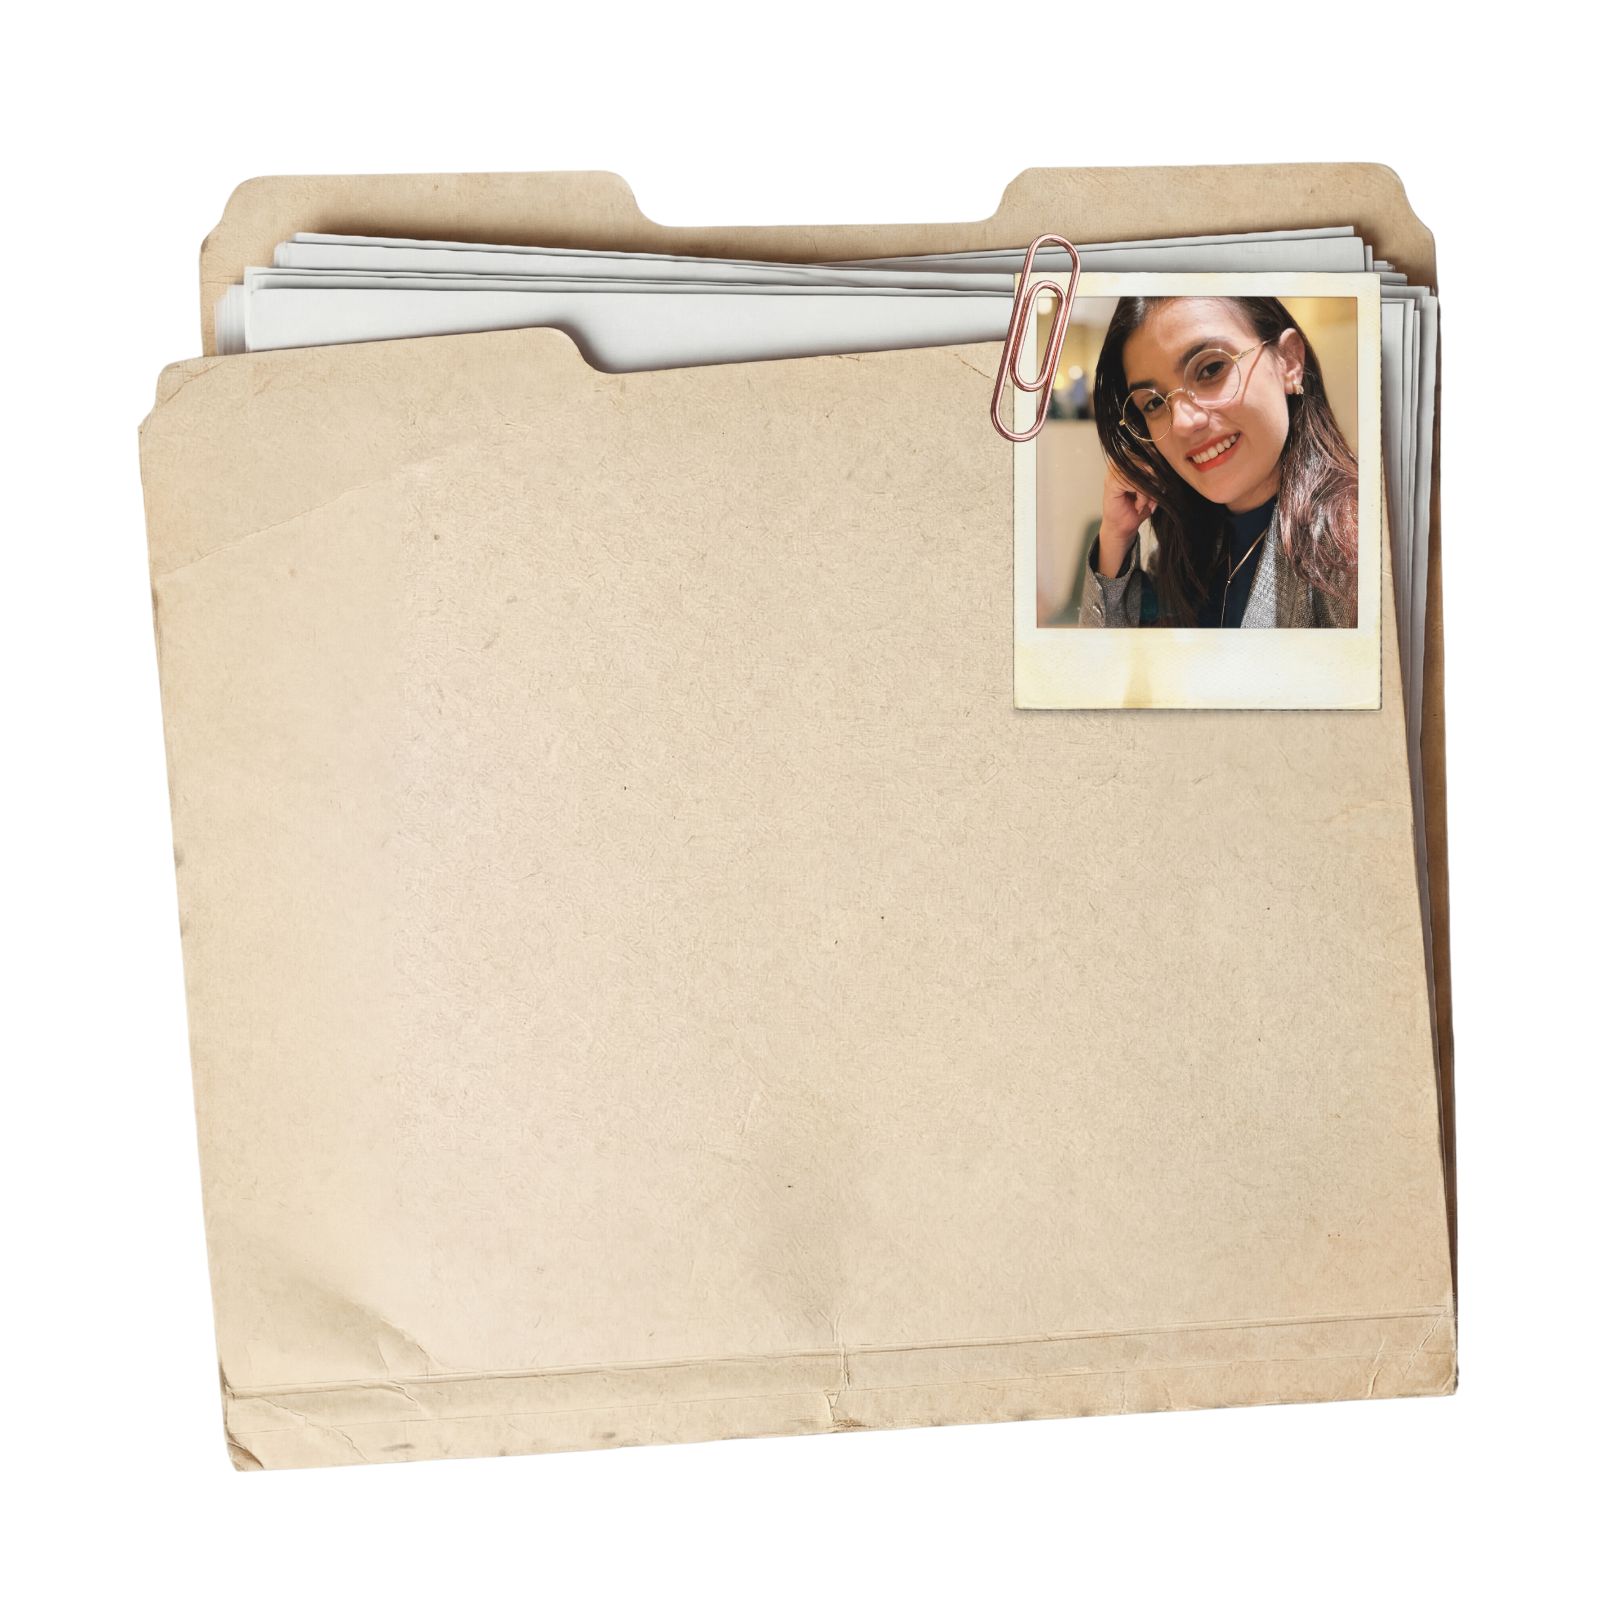
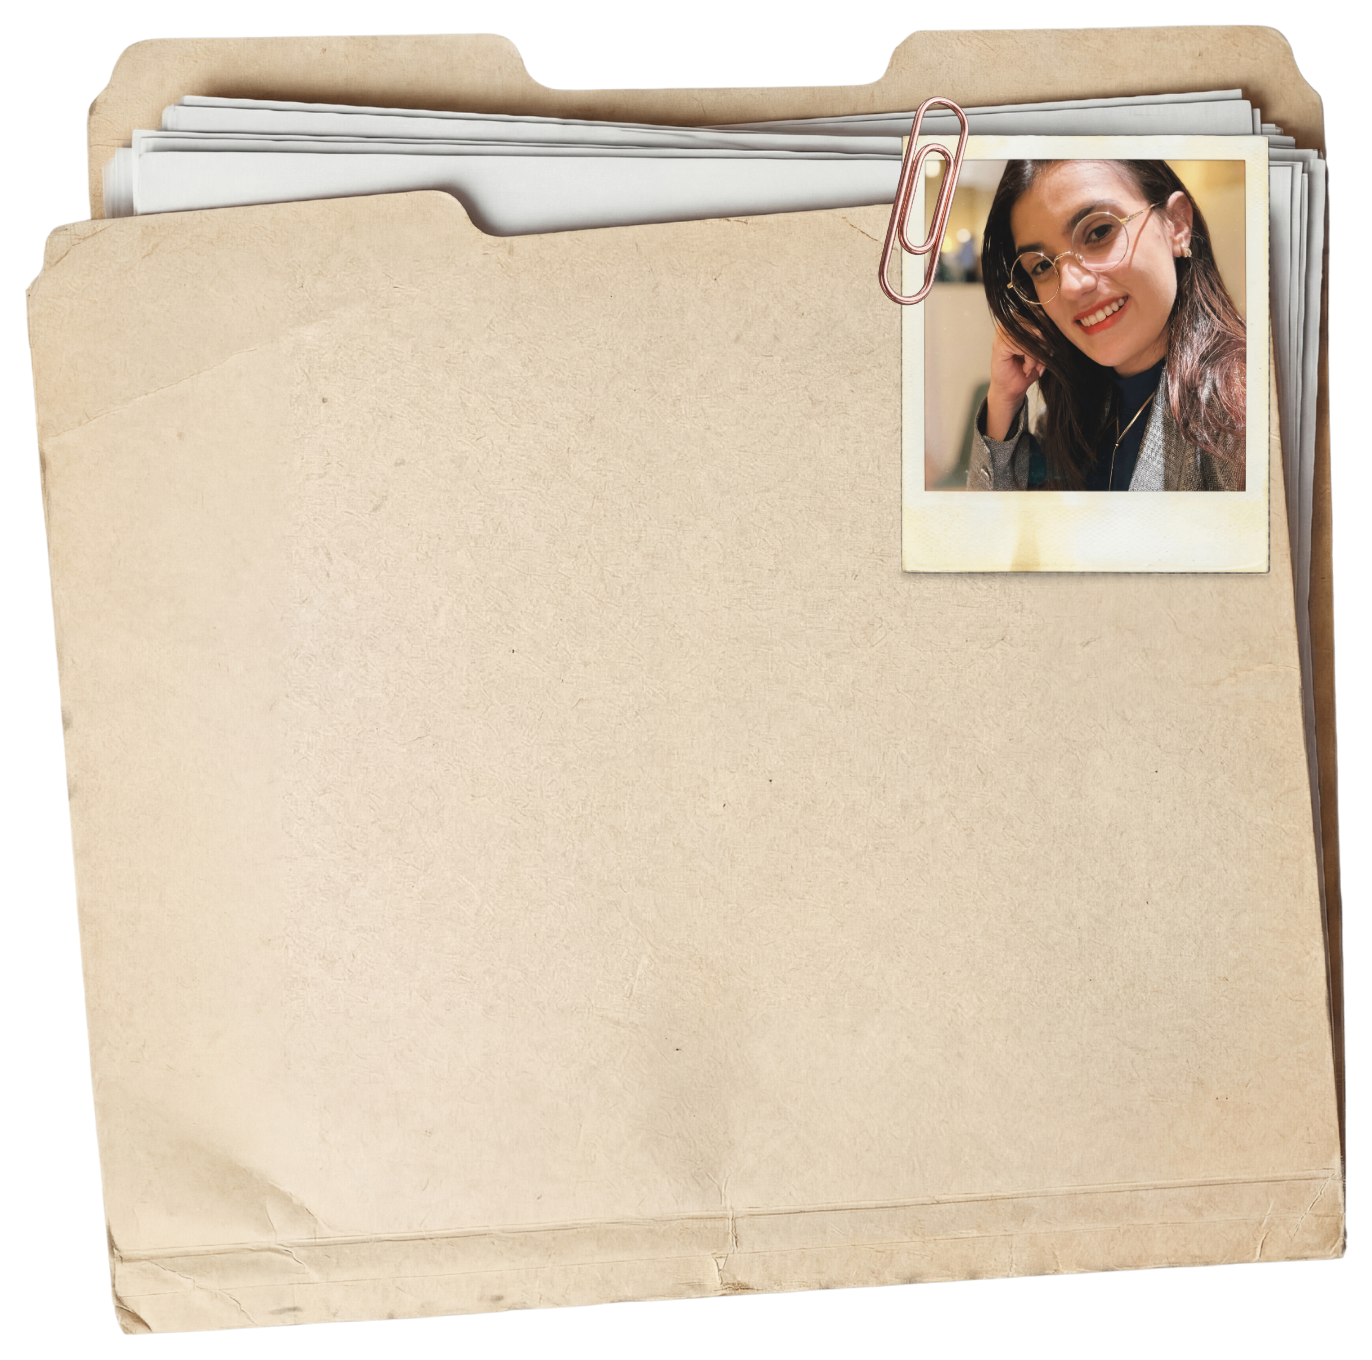
Ajustou hero para evitar corte

diff --git a/src/components/HeroFolder.tsx b/src/components/HeroFolder.tsx
@@ -18,7 +18,7 @@ export default function HeroFolder() {
   return (
     <section
       ref={ref}
-      className="relative flex min-h-[100svh] items-center justify-center overflow-x-hidden px-4 pb-16 pt-24 md:pb-20 md:pt-28"
+      className="relative flex min-h-[100svh] items-center justify-center overflow-x-hidden px-4 pb-12 pt-20 md:pb-16 md:pt-24"
       style={{ perspective: "1600px" }}
     >
       <motion.div
@@ -37,14 +37,14 @@ export default function HeroFolder() {
           <img
             src={folderHero}
             alt="Pasta de portfólio Maryane Maia"
-            className="block h-auto w-auto max-h-[62svh] max-w-full sm:max-h-[66svh] md:max-h-[70svh] xl:max-h-[74svh]"
+            className="block h-auto max-h-[calc(100svh-9rem)] w-auto max-w-[94vw] md:max-h-[calc(100svh-10rem)] xl:max-h-[calc(100svh-9.5rem)]"
             loading="eager"
             decoding="async"
           />
 
           <div
-            className="pointer-events-none absolute inset-0 flex flex-col items-center justify-center px-[12%]"
-            style={{ paddingTop: "12%" }}
+            className="pointer-events-none absolute inset-0 flex flex-col items-center justify-center px-[10%]"
+            style={{ paddingTop: "16%" }}
           >
             <motion.h1
               initial={{ opacity: 0, y: 15 }}
@@ -63,7 +63,7 @@ export default function HeroFolder() {
         initial={{ opacity: 0, y: 15 }}
         animate={{ opacity: 1, y: 0 }}
         transition={{ delay: 1.1, duration: 0.5 }}
-        className="absolute bottom-6 left-1/2 flex -translate-x-1/2 flex-col items-center gap-1.5 md:bottom-8"
+        className="absolute bottom-4 left-1/2 flex -translate-x-1/2 flex-col items-center gap-1.5 md:bottom-6"
       >
         <span className="font-elegant text-sm tracking-wide text-primary-foreground/80">
           Role para explorar os arquivos
